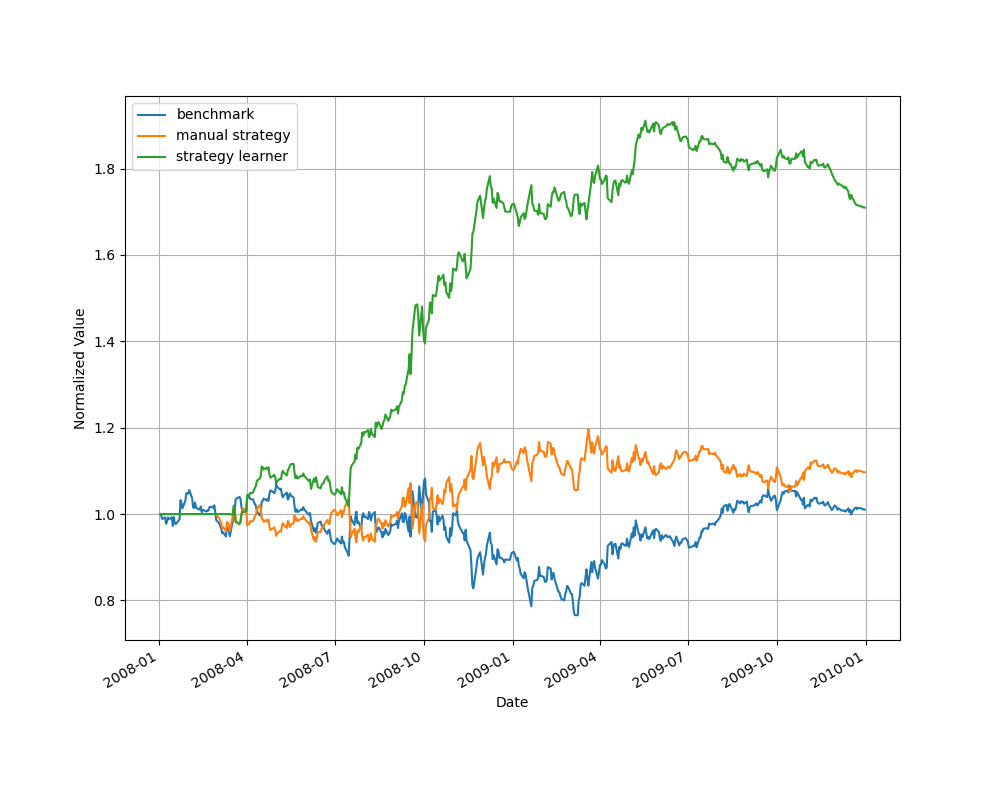
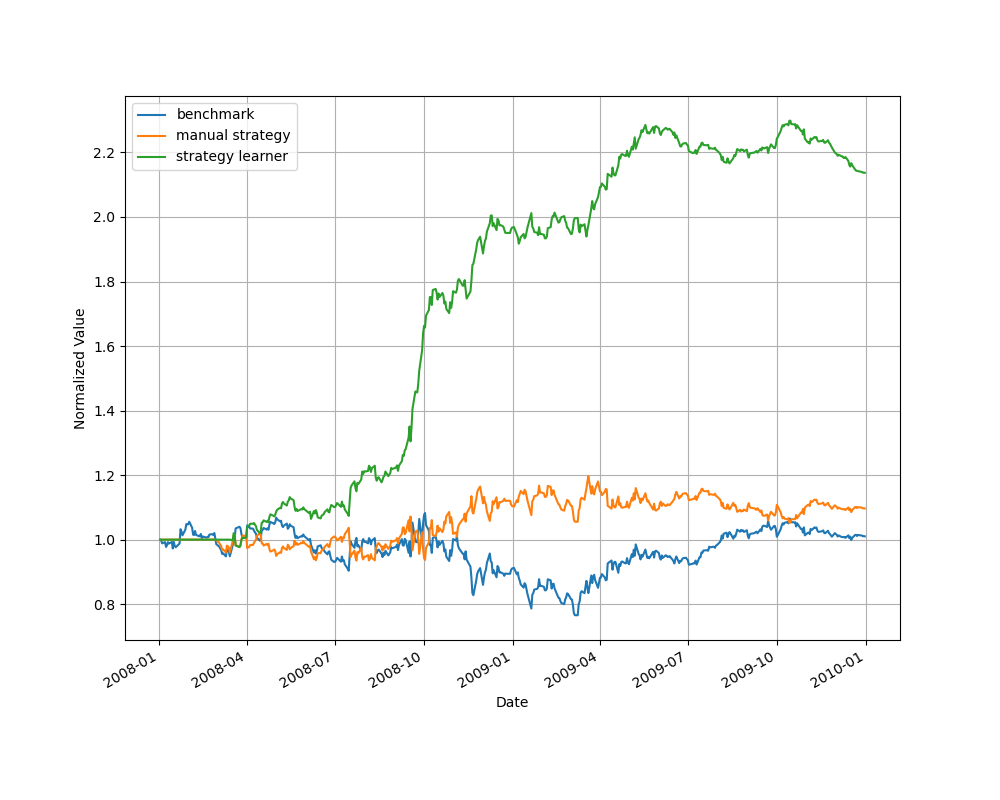
another auto grader fix proj8

diff --git a/strategy_evaluation/temp.py b/strategy_evaluation/temp.py
@@ -11,23 +11,26 @@ import pytest
 import util
 import StrategyLearner
 
-
-description = "ML4T-220"
+description = "AAPL"
 insample_args = dict(
-    symbol="ML4T-220",
+    symbol="AAPL",
     sd=dt.datetime(2008, 1, 1),
     ed=dt.datetime(2009, 12, 31),
     sv=100000,
 )
 outsample_args = dict(
-    symbol="ML4T-220",
+    symbol="AAPL",
     sd=dt.datetime(2010, 1, 1),
     ed=dt.datetime(2011, 12, 31),
     sv=100000,
 )
-benchmark_type = "clean"
-benchmark = 1.0  # benchmark updated Apr 24 2017
+benchmark_type = "stock"
+benchmark = 0.1581999999999999  # benchmark computed Nov 22 2017
 impact = 0.0
+seed = 1481090000
+
+np.random.seed(seed)
+random.seed(seed)
 
 learner = StrategyLearner.StrategyLearner(verbose=False, impact=impact)
 
@@ -38,3 +41,5 @@ insample_trades_1 = learner.testPolicy(**insample_args)
 insample_trades_2 = learner.testPolicy(**insample_args)
 
 outsample_trades = learner.testPolicy(**outsample_args)
+
+print()

diff --git a/strategy_evaluation/ManualStrategy.py b/strategy_evaluation/ManualStrategy.py
@@ -106,8 +106,10 @@ class ManualStrategy:
             prev_date = date
 
         # cover final position
-        output['Date'].append(stock_data.last_valid_index())
-        output['Trade'].append(-current_position)
+        final_date = stock_data.last_valid_index()
+        if final_date not in output['Date']:
+            output['Date'].append(final_date)
+            output['Trade'].append(-current_position)
         # current_position = 0
 
         df_trades = pd.DataFrame(data=output['Trade'], index=output['Date'], columns=[symbol])

diff --git a/strategy_evaluation/StrategyLearner.py b/strategy_evaluation/StrategyLearner.py
@@ -216,8 +216,10 @@ class StrategyLearner(object):
 
 
         # cover final position
-        output['Date'].append(self.states.index[-1])
-        output['Trade'].append(-self.position)
+        final_date = self.states.index[-1]
+        if final_date not in output['Date']:
+            output['Date'].append(final_date)
+            output['Trade'].append(-self.position)
 
         trades = pd.DataFrame(data=output['Trade'], index=output['Date'], columns=[symbol])
 
